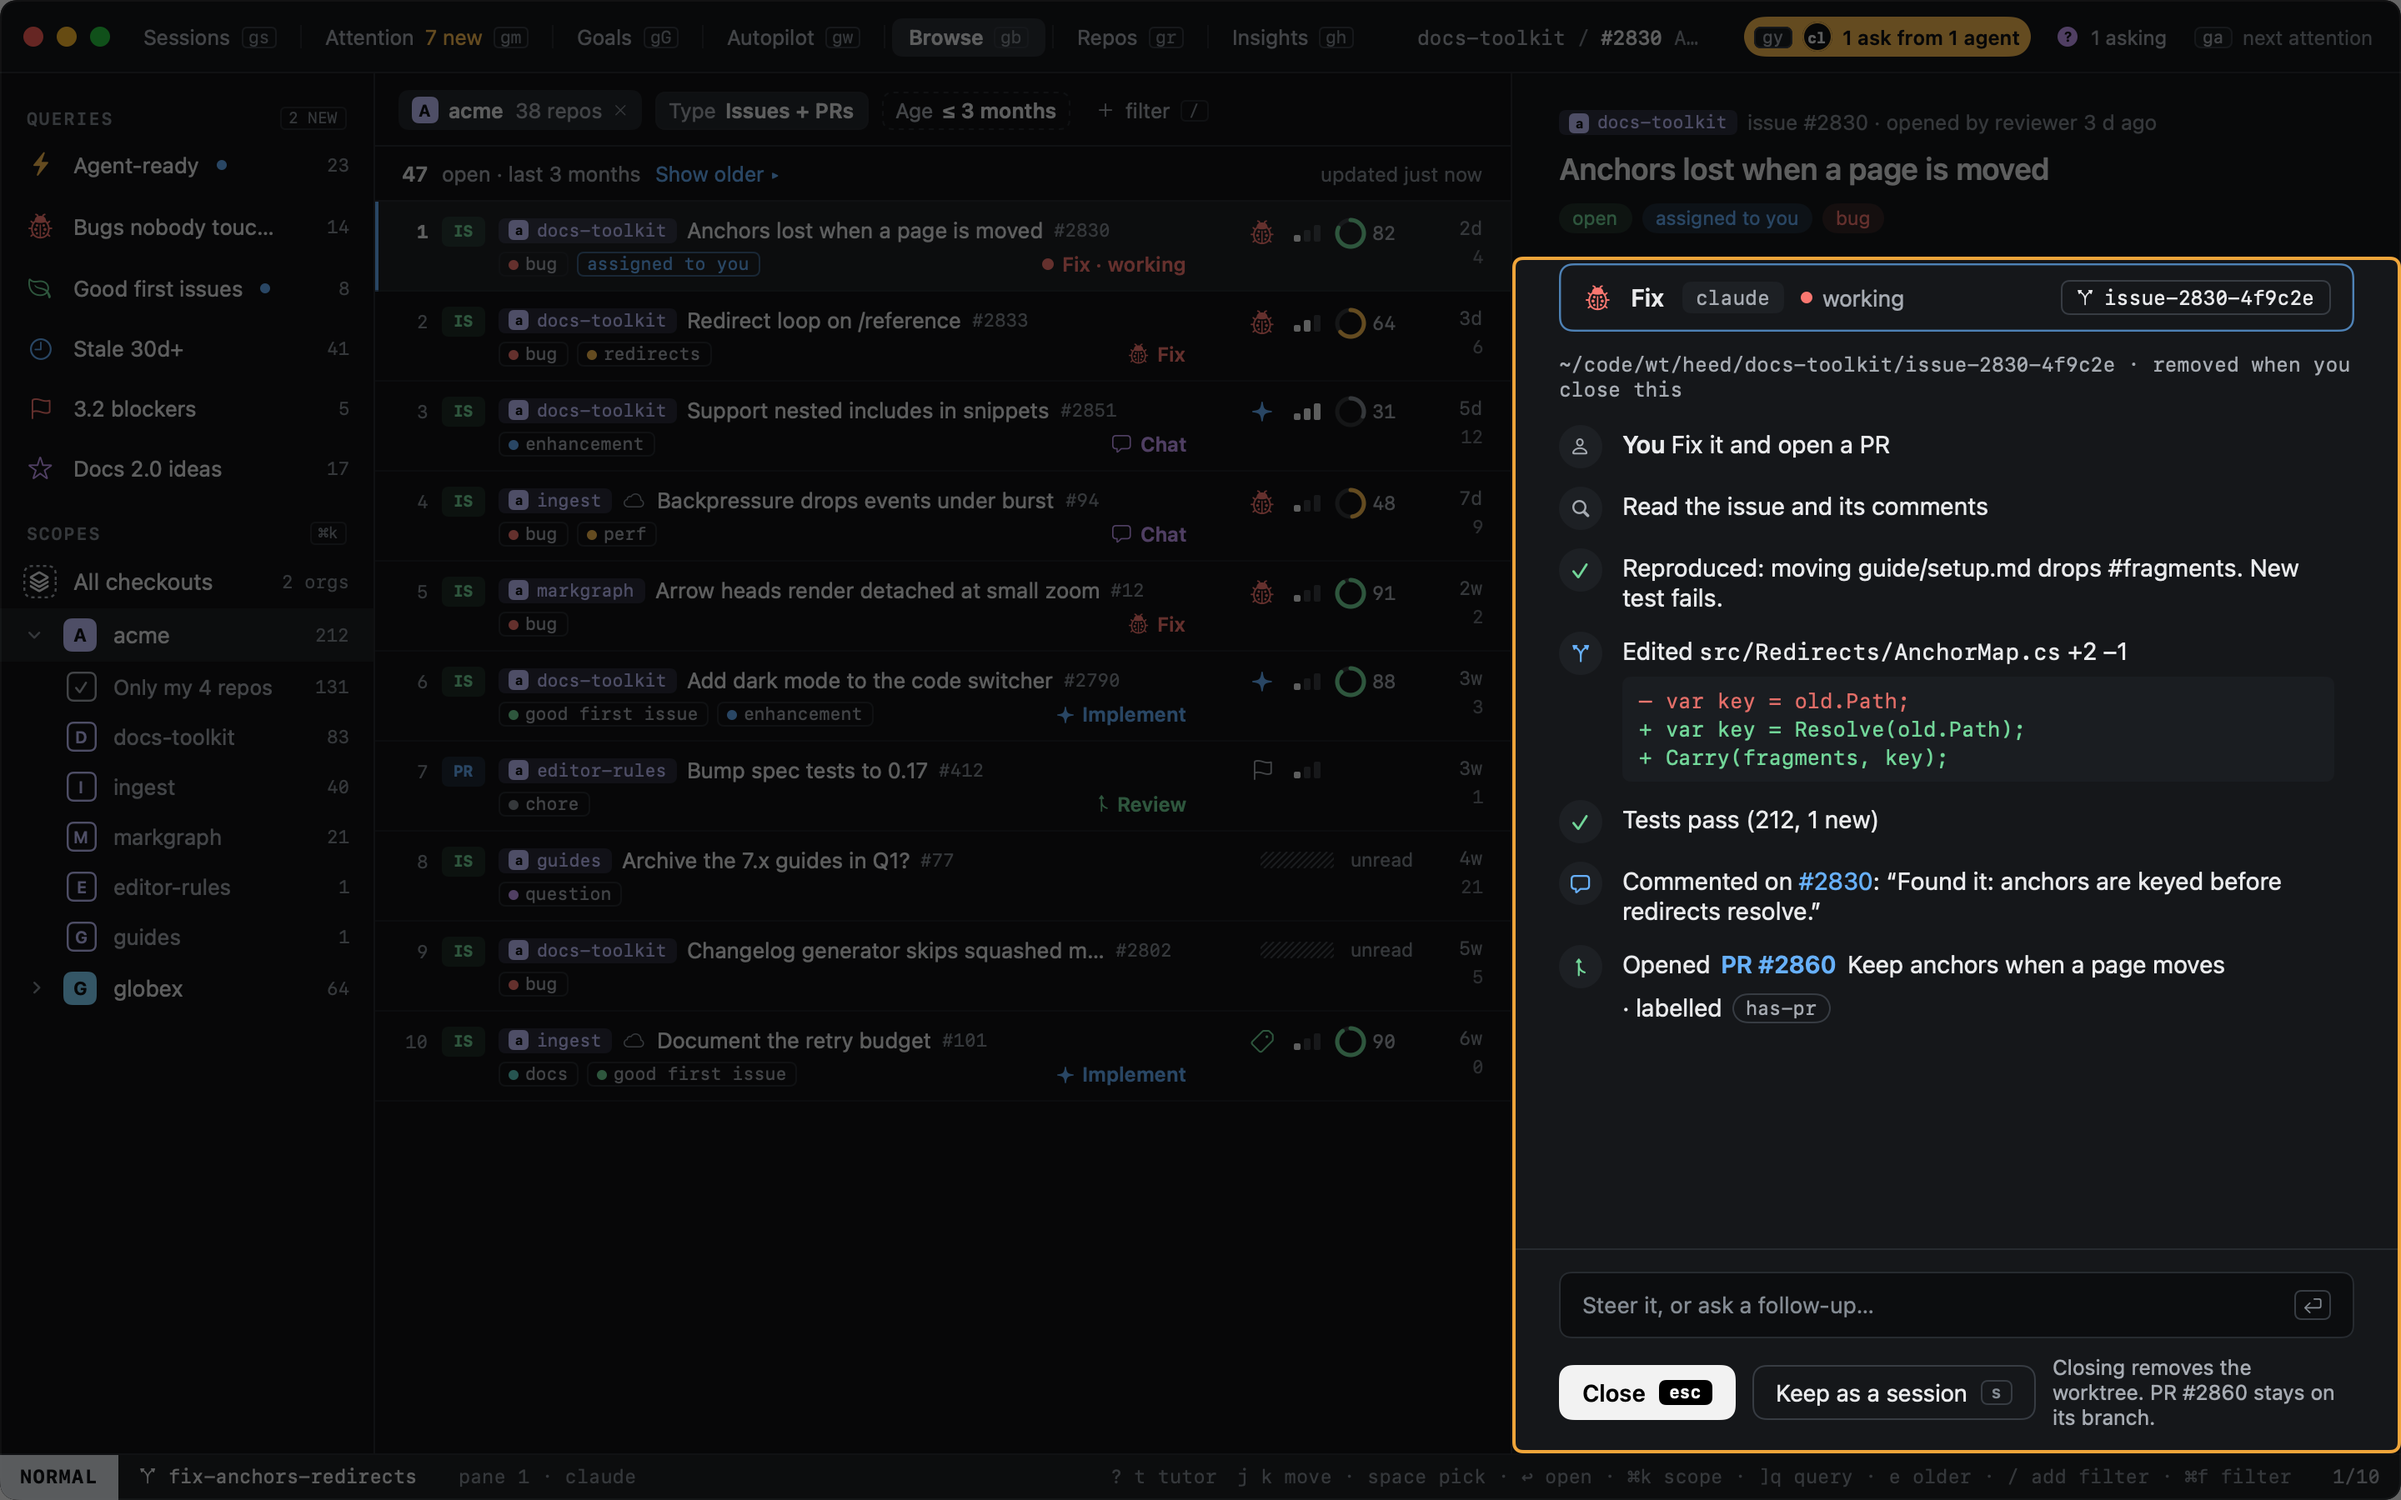
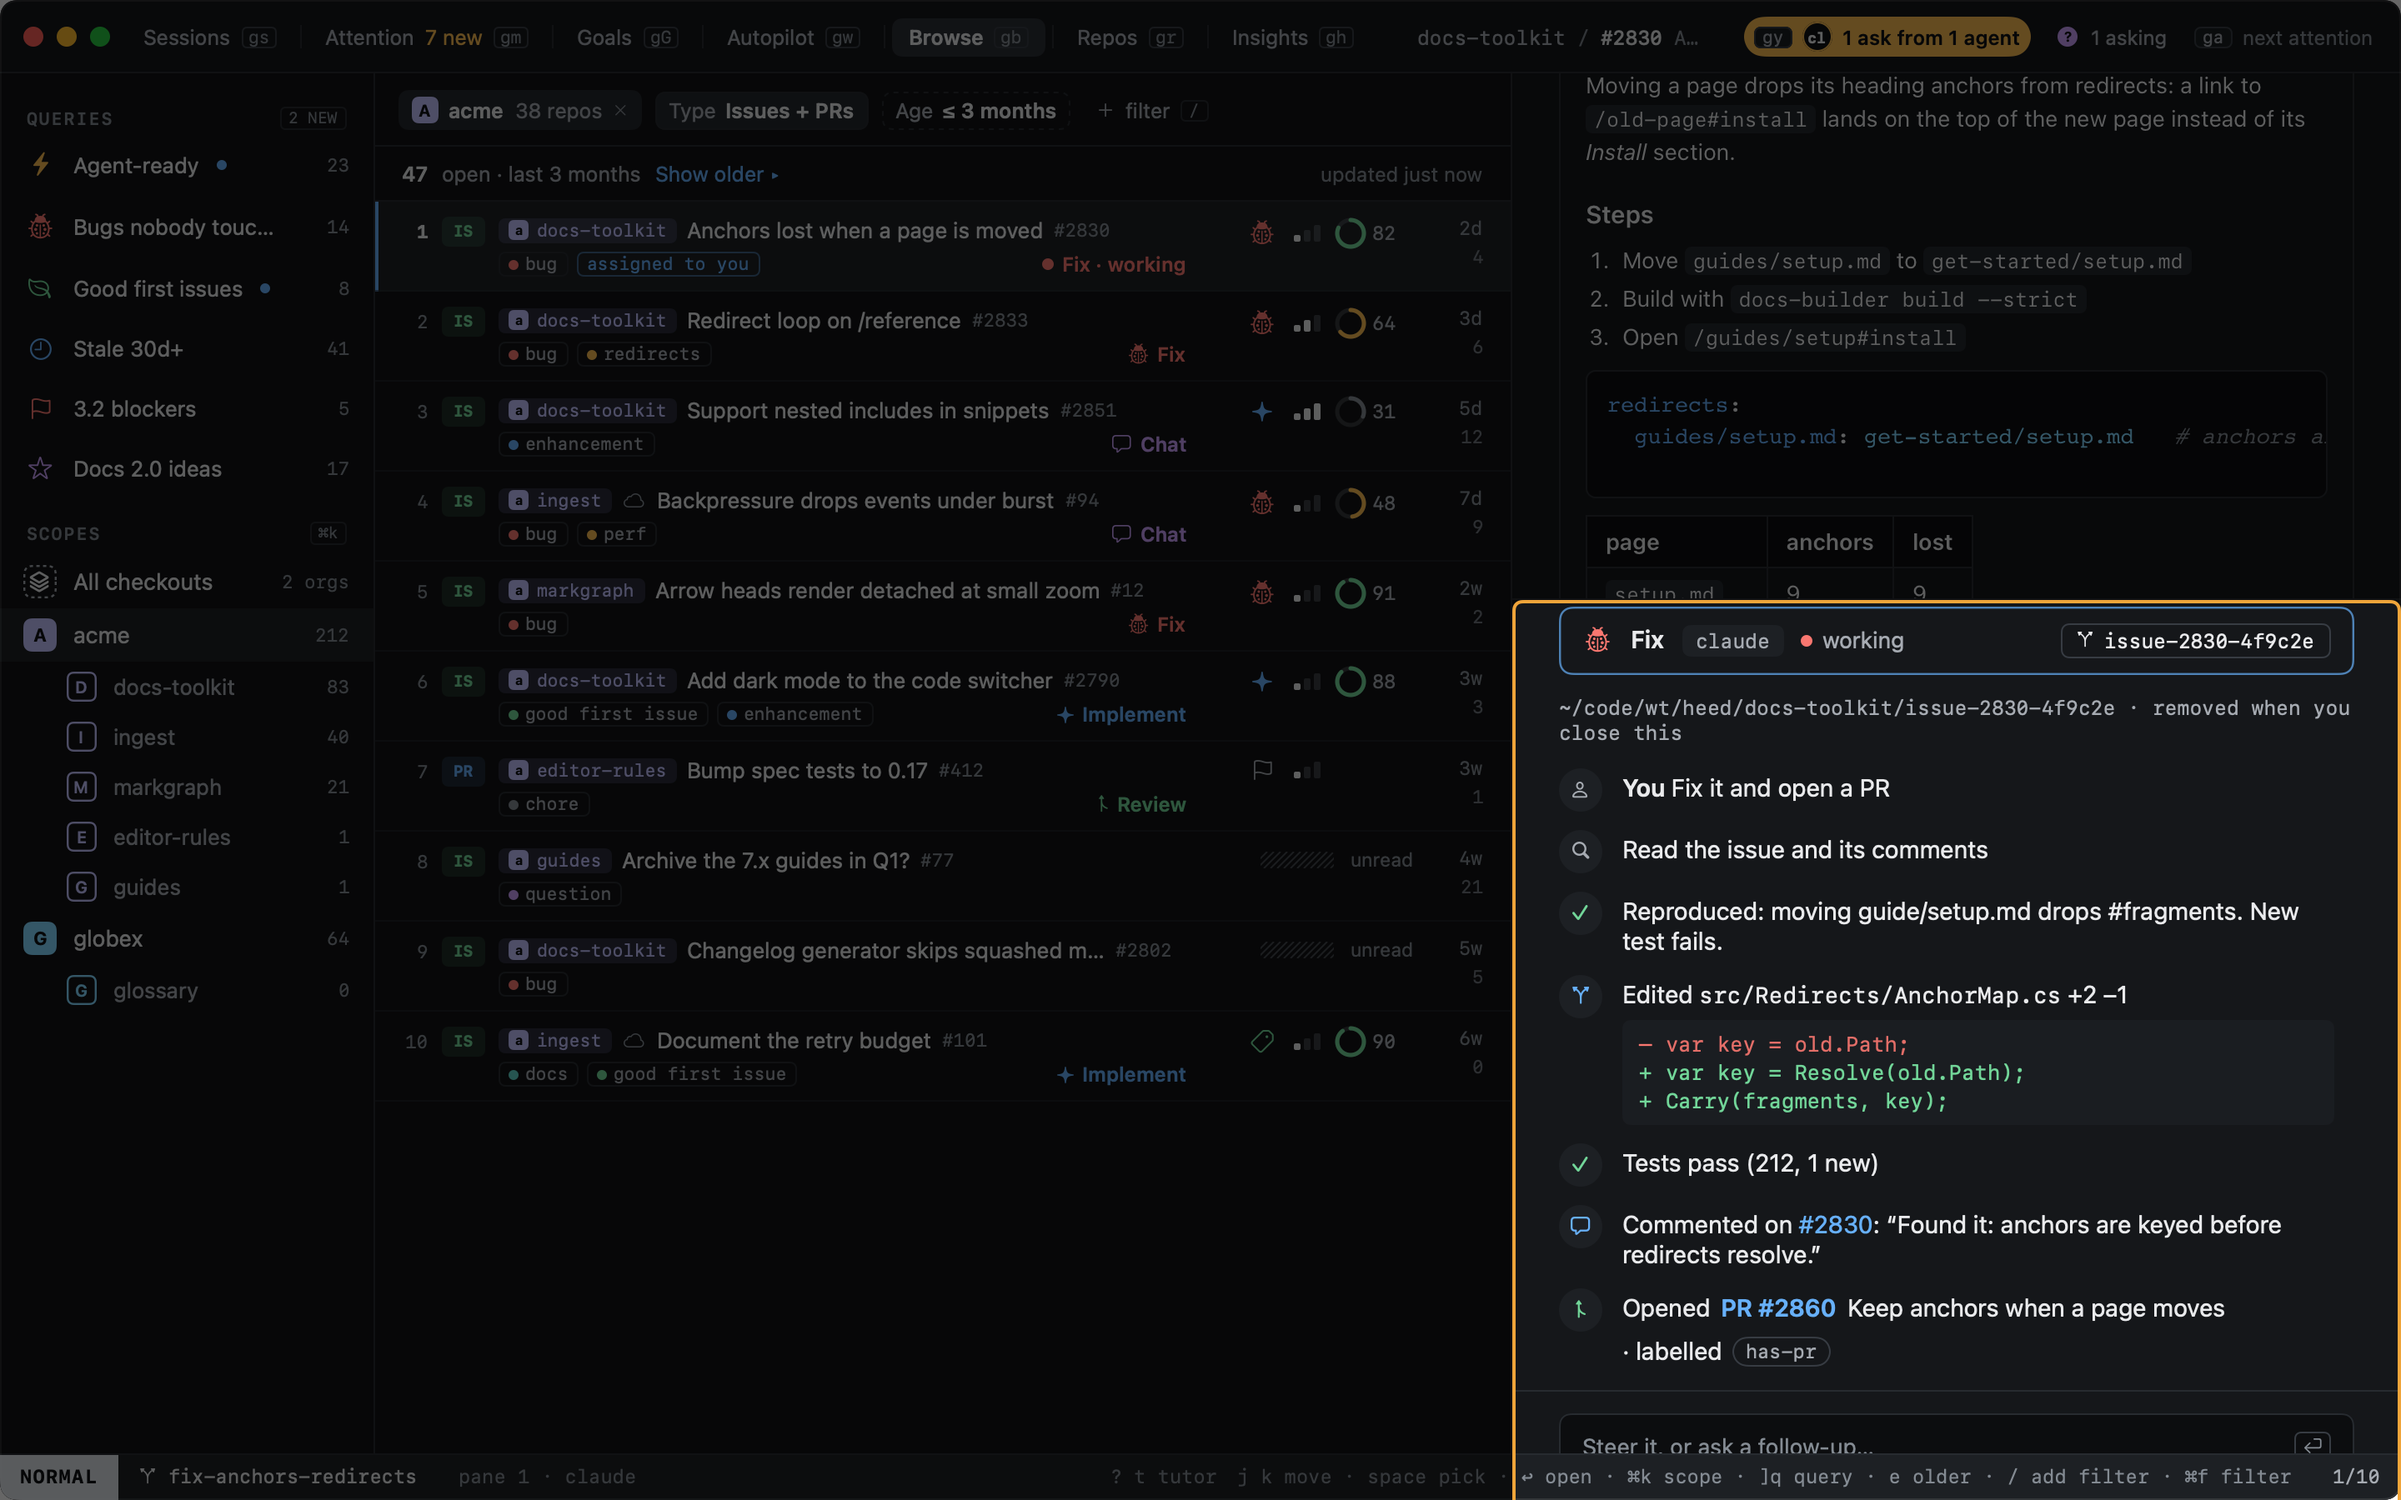
Browse: a run splits the reader so the issue stays readable; document the ACP adapter (#305)
## What

- While a Fix, Implement, Chat or Review run is on an item, the reader
is a horizontal split: the issue or PR stays on top (38% of the reader),
the run's feed, steer line and buttons below it. The run used to replace
the thread.
- The requirement for the ACP adapter is documented where a reader meets
it: Browse's run section and the top of Helpers (claude needs
`claude-agent-acp`, which agent needs what, that sessions started with
Start work do not need it).
- `github/browse-run.png` re-shot.

## Checked

- Build passes; the 322 Browse tests pass.
- Looked at the re-shot screenshot (debug build). Not exercised against
a live run.

🤖 Generated with [Claude Code](https://claude.com/claude-code)

diff --git a/Sources/HeedApp/Views/BrowseView.swift b/Sources/HeedApp/Views/BrowseView.swift
@@ -803,12 +803,14 @@ struct BrowseReader: View {
     var body: some View {
         let run = model.browse.runs.current(for: item.id)
         if let run, run.phase != .needsClone, run.phase != .cloning || !run.worktree.isEmpty {
-            // A run is on the item: the title and what it says, then the run, which takes the rest of the reader.
-            VStack(alignment: .leading, spacing: 0) {
-                header
-                    .padding(.horizontal, 28).padding(.top, 22).padding(.bottom, 14)
-                    .frame(maxWidth: 900, alignment: .leading)
-                BrowseRunPanel(run: run).frame(maxWidth: 900)
+            // A run is on the item: a horizontal split. The issue or PR stays readable on top, the run takes the
+            // rest below it, so what the agent is working on is never hidden by what it does.
+            GeometryReader { geometry in
+                VStack(spacing: 0) {
+                    thread(actions: false).frame(height: max(geometry.size.height * Self.threadShare, 140)).clipped()
+                    Theme.line.frame(height: 1)
+                    BrowseRunPanel(run: run).frame(maxWidth: 900).frame(maxWidth: .infinity)
+                }
             }
         } else {
             let work = if let run { AnyView(BrowseCloneCard(run: run).frame(maxWidth: 900)) } else {
@@ -829,17 +831,12 @@ struct BrowseReader: View {
         }
     }
 
-    private var header: some View {
-        let conversation = model.conversation(item.repo, item.number)
-        return ThreadHeader(
-            repo: item.repo, kind: item.kind == .pull ? .pr : .issue, number: item.number,
-            title: conversation?.title ?? item.title.display,
-            author: conversation?.author?.login ?? item.author,
-            openedAt: conversation?.createdAt ?? item.createdAt, chips: chips
-        )
-    }
+    /// The share of the reader the thread keeps while a run is on the item.
+    static let threadShare: CGFloat = 0.38
 
-    private var thread: some View {
+    private var thread: some View { thread(actions: true) }
+
+    private func thread(actions: Bool) -> some View {
         let conversation = model.conversation(item.repo, item.number)
         let key = ThreadConversation.key(repo: item.repo, number: item.number)
         return Scrolling {
@@ -851,7 +848,7 @@ struct BrowseReader: View {
                     openedAt: conversation?.createdAt ?? item.createdAt, chips: chips
                 )
                 BrowseReadCard(item: item)
-                if model.browse.layout != .wide { BrowseItemActions(item: item, compact: compact) }
+                if actions, model.browse.layout != .wide { BrowseItemActions(item: item, compact: compact) }
                 if let conversation {
                     ThreadConversationView(conversation: conversation, seenAt: nil)
                 } else if let error = model.threads[key]?.error {

diff --git a/docs/github/browse.md b/docs/github/browse.md
@@ -248,9 +248,22 @@ Implement never fits a PR, and Review is off on your own PR. An agent action wor
 
 **Where it runs.** The agent runs in a temporary worktree, named `issue-<number>-<hex>` for an issue and
 `pr-<number>-<hex>` for a PR, on a branch `heed/browse/<name>`, under the same root as helper worktrees. The reader
-shows the feed: what it read, edited (with the diff), ran, tested, commented, pushed and opened. Closing the run
+is split in two: the issue or PR stays on top, so you can keep reading what the agent is working on, and the run's
+feed sits below it: what it read, edited (with the diff), ran, tested, commented, pushed and opened. Closing the run
 (`⎋`) removes the worktree and its local branch. A branch it pushed stays on GitHub. If commits were never pushed,
 heed says so as it closes.
+
+**What it needs.** A run talks to its agent over [ACP](../autopilot/helpers.md#how-heed-talks-to-them), which the agent's
+own command line does not speak, so for claude heed needs the ACP adapter on your login shell's `PATH`:
+
+```sh
+npm install -g @agentclientprotocol/claude-agent-acp
+```
+
+Without it a run stops at once and says `claude-agent-acp is not installed`, with that command. opencode and gemini
+speak ACP themselves and need nothing extra; codex needs `codex-acp`. heed never installs an adapter. Sessions you
+start with Start work run the agent directly and do not need it. The adapter table, and `[helpers] command` for running it
+through `npx -y` instead, are in [Helpers](../autopilot/helpers.md#which-agent); `[browse] agent` picks the agent a run uses.
 
 **Clone first.** When the repo is not on this Mac, the run opens with a card: `↩` clones and starts, `c` only clones,
 `d` picks the folder, `⎋` is not now.

diff --git a/docs/autopilot/helpers.md b/docs/autopilot/helpers.md
@@ -12,6 +12,11 @@ what heed will post. heed pushes or posts nothing until you say so, or until the
 
 Your sessions stay real terminals. Helpers are what heed runs itself.
 
+**Requirement.** Helpers, and the [Fix, Implement, Chat and Review runs in Browse](../github/browse.md#fix-implement-chat-review),
+reach their agent over ACP. Claude's own command line does not speak ACP, so heed needs the ACP project's adapter,
+`npm install -g @agentclientprotocol/claude-agent-acp`, on your login shell's `PATH`. [Which agent](#which-agent) lists
+the adapter for each agent. Sessions you start yourself never need it.
+
 ## How heed talks to them
 
 Helpers speak the [Agent Client Protocol](https://agentclientprotocol.com) (ACP), version 1: JSON-RPC over the agent's
